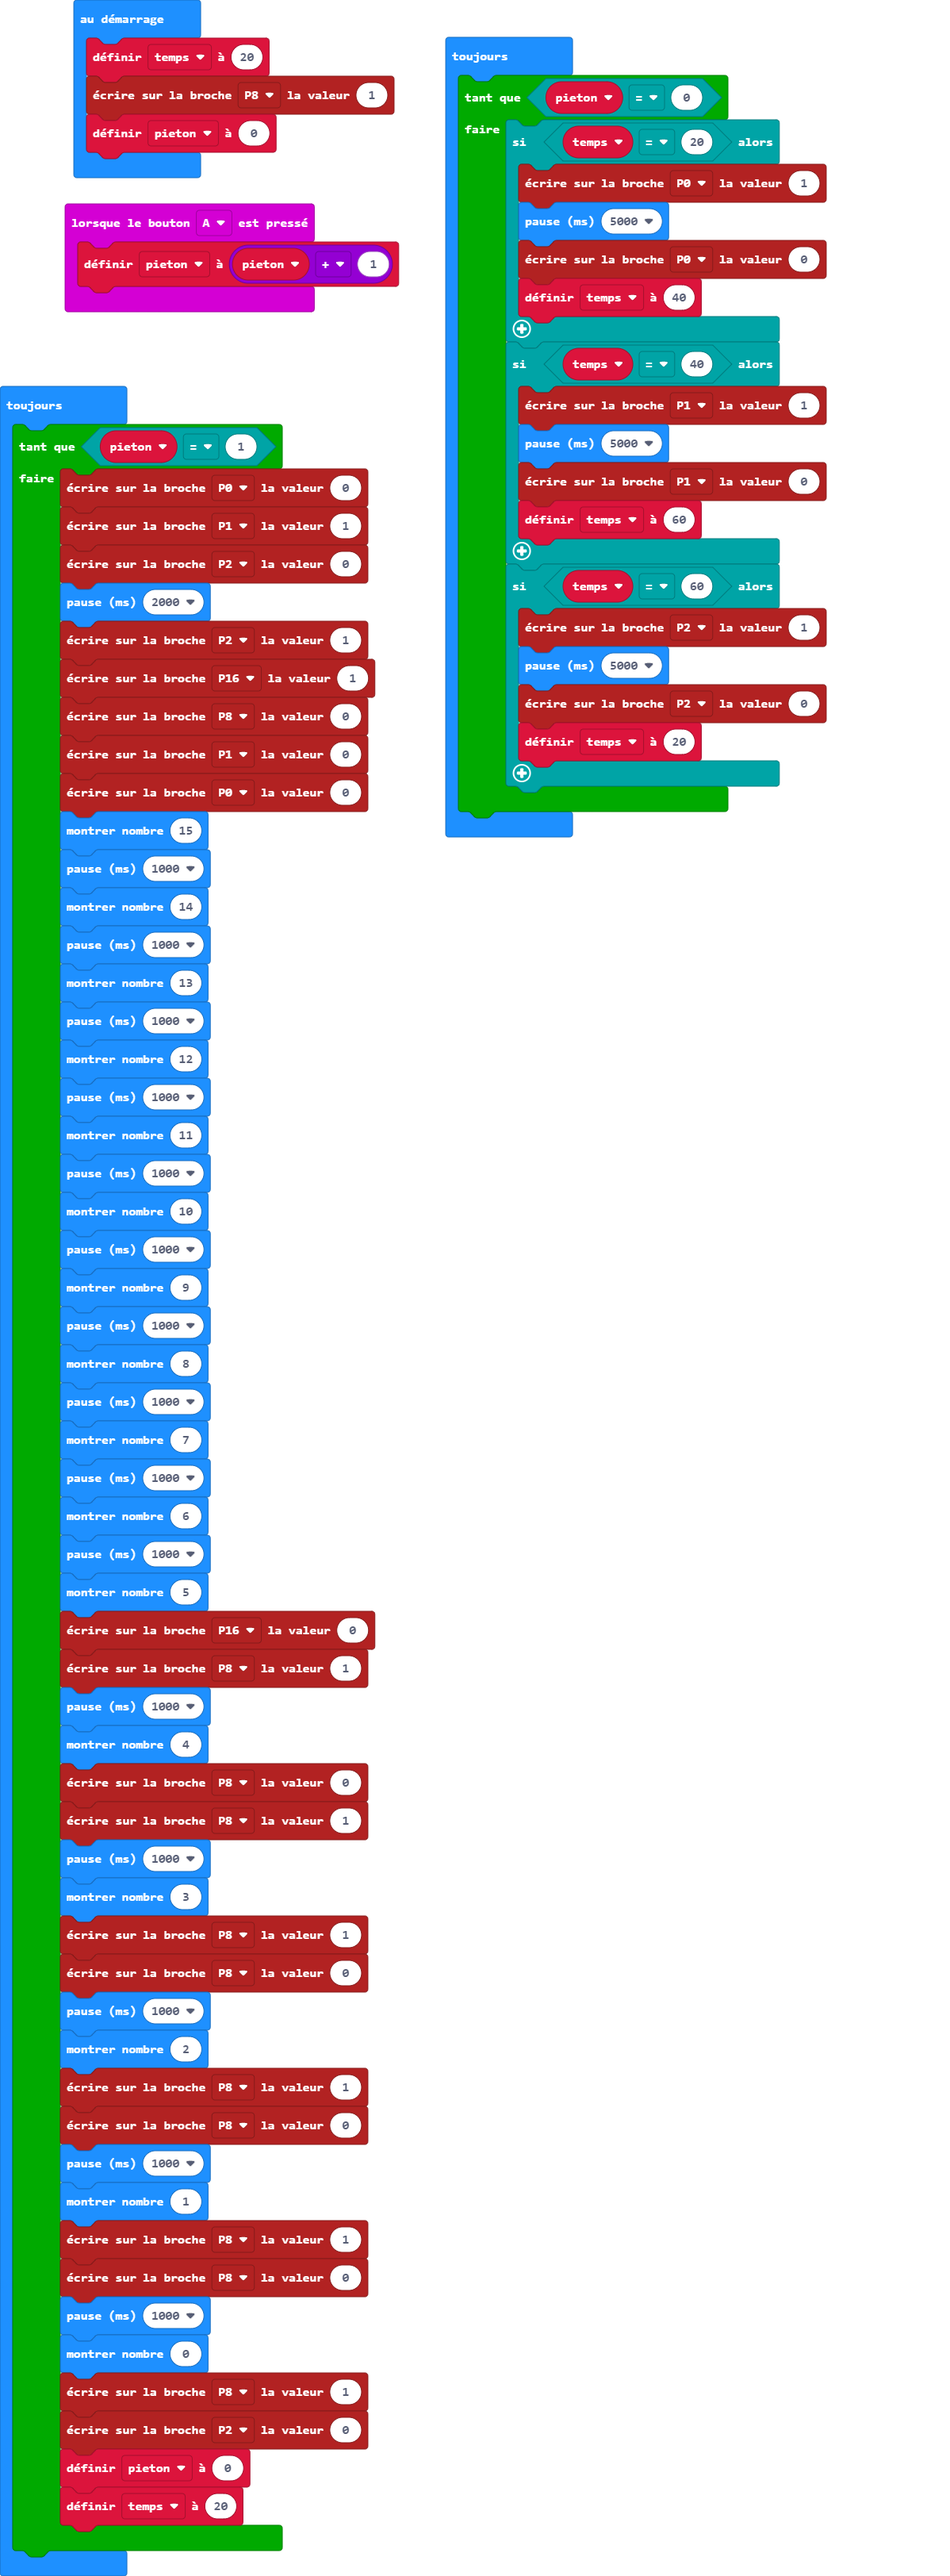
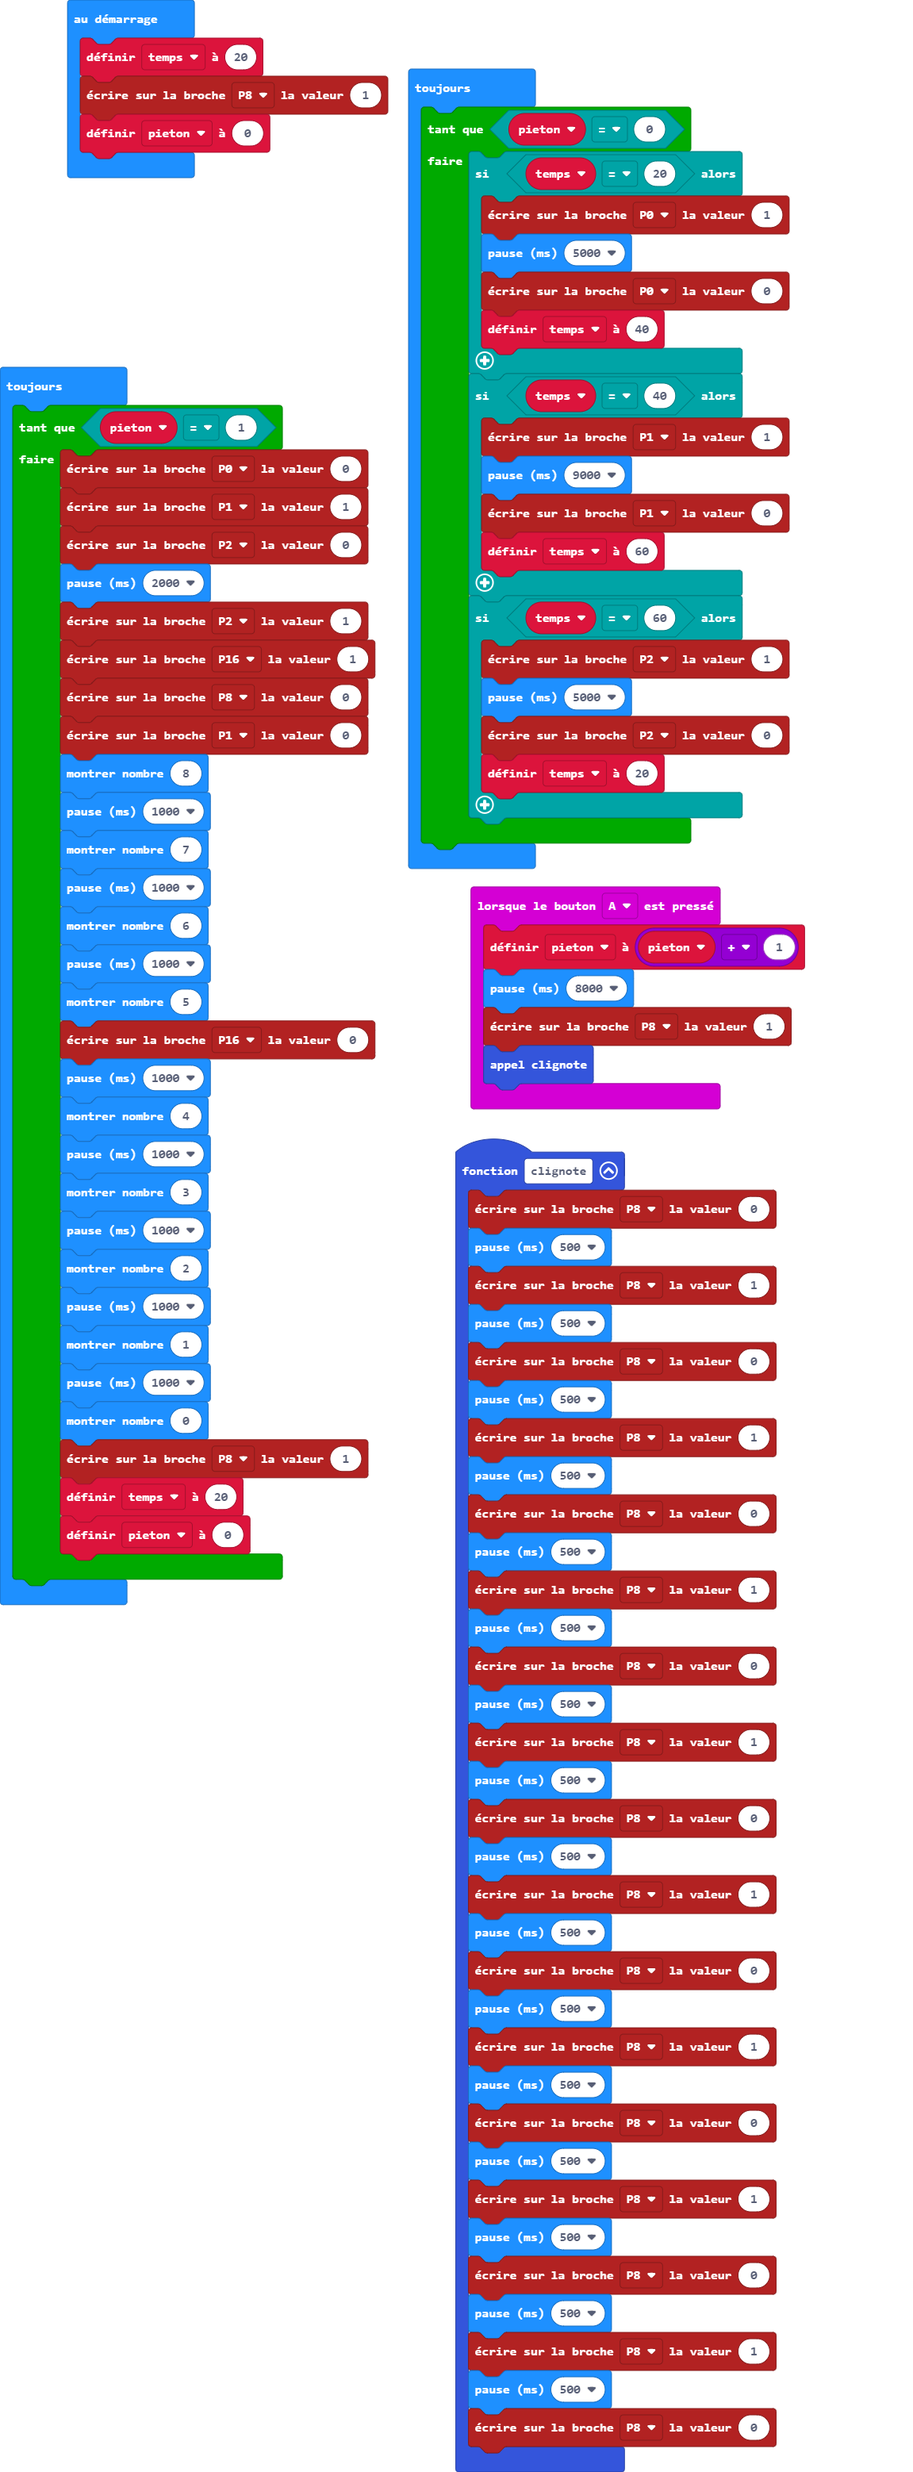
Mise à jour main.blocks, main.ts

diff --git a/main.ts b/main.ts
@@ -1,6 +1,44 @@
 input.onButtonPressed(Button.A, function () {
     pieton = pieton + 1
+    basic.pause(8000)
+    pins.digitalWritePin(DigitalPin.P8, 1)
+    clignote()
 })
+function clignote () {
+    pins.digitalWritePin(DigitalPin.P8, 0)
+    basic.pause(500)
+    pins.digitalWritePin(DigitalPin.P8, 1)
+    basic.pause(500)
+    pins.digitalWritePin(DigitalPin.P8, 0)
+    basic.pause(500)
+    pins.digitalWritePin(DigitalPin.P8, 1)
+    basic.pause(500)
+    pins.digitalWritePin(DigitalPin.P8, 0)
+    basic.pause(500)
+    pins.digitalWritePin(DigitalPin.P8, 1)
+    basic.pause(500)
+    pins.digitalWritePin(DigitalPin.P8, 0)
+    basic.pause(500)
+    pins.digitalWritePin(DigitalPin.P8, 1)
+    basic.pause(500)
+    pins.digitalWritePin(DigitalPin.P8, 0)
+    basic.pause(500)
+    pins.digitalWritePin(DigitalPin.P8, 1)
+    basic.pause(500)
+    pins.digitalWritePin(DigitalPin.P8, 0)
+    basic.pause(500)
+    pins.digitalWritePin(DigitalPin.P8, 1)
+    basic.pause(500)
+    pins.digitalWritePin(DigitalPin.P8, 0)
+    basic.pause(500)
+    pins.digitalWritePin(DigitalPin.P8, 1)
+    basic.pause(500)
+    pins.digitalWritePin(DigitalPin.P8, 0)
+    basic.pause(500)
+    pins.digitalWritePin(DigitalPin.P8, 1)
+    basic.pause(500)
+    pins.digitalWritePin(DigitalPin.P8, 0)
+}
 let pieton = 0
 let temps = 20
 pins.digitalWritePin(DigitalPin.P8, 1)
@@ -15,7 +53,7 @@ basic.forever(function () {
         }
         if (temps == 40) {
             pins.digitalWritePin(DigitalPin.P1, 1)
-            basic.pause(5000)
+            basic.pause(9000)
             pins.digitalWritePin(DigitalPin.P1, 0)
             temps = 60
         }
@@ -37,21 +75,6 @@ basic.forever(function () {
         pins.digitalWritePin(DigitalPin.P16, 1)
         pins.digitalWritePin(DigitalPin.P8, 0)
         pins.digitalWritePin(DigitalPin.P1, 0)
-        pins.digitalWritePin(DigitalPin.P0, 0)
-        basic.showNumber(15)
-        basic.pause(1000)
-        basic.showNumber(14)
-        basic.pause(1000)
-        basic.showNumber(13)
-        basic.pause(1000)
-        basic.showNumber(12)
-        basic.pause(1000)
-        basic.showNumber(11)
-        basic.pause(1000)
-        basic.showNumber(10)
-        basic.pause(1000)
-        basic.showNumber(9)
-        basic.pause(1000)
         basic.showNumber(8)
         basic.pause(1000)
         basic.showNumber(7)
@@ -60,28 +83,18 @@ basic.forever(function () {
         basic.pause(1000)
         basic.showNumber(5)
         pins.digitalWritePin(DigitalPin.P16, 0)
-        pins.digitalWritePin(DigitalPin.P8, 1)
         basic.pause(1000)
         basic.showNumber(4)
-        pins.digitalWritePin(DigitalPin.P8, 0)
-        pins.digitalWritePin(DigitalPin.P8, 1)
         basic.pause(1000)
         basic.showNumber(3)
-        pins.digitalWritePin(DigitalPin.P8, 1)
-        pins.digitalWritePin(DigitalPin.P8, 0)
         basic.pause(1000)
         basic.showNumber(2)
-        pins.digitalWritePin(DigitalPin.P8, 1)
-        pins.digitalWritePin(DigitalPin.P8, 0)
         basic.pause(1000)
         basic.showNumber(1)
-        pins.digitalWritePin(DigitalPin.P8, 1)
-        pins.digitalWritePin(DigitalPin.P8, 0)
         basic.pause(1000)
         basic.showNumber(0)
         pins.digitalWritePin(DigitalPin.P8, 1)
-        pins.digitalWritePin(DigitalPin.P2, 0)
-        pieton = 0
         temps = 20
+        pieton = 0
     }
 })
